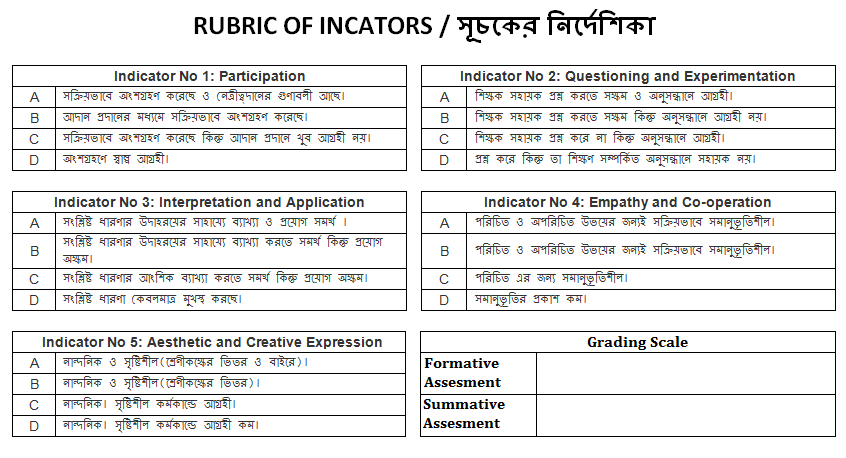
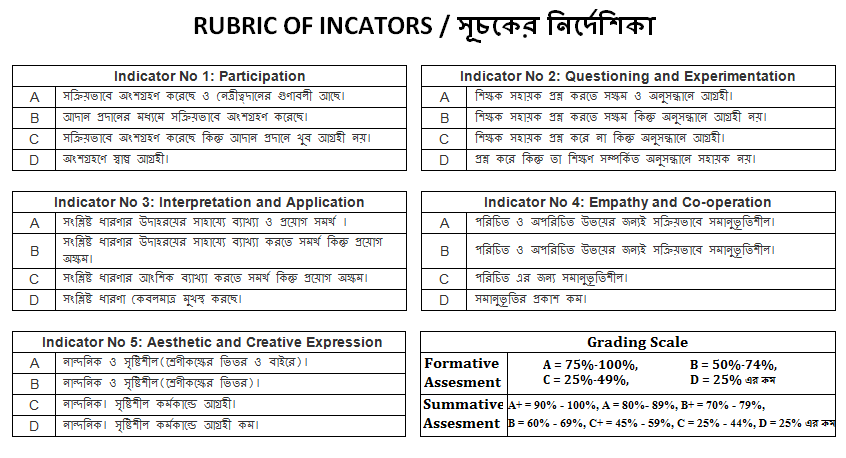
home

Changed region(s): [[0.5839, 0.7642, 0.9835, 0.9476]]

diff --git a/resources/views/resultcrs/clssecResultSheetv3.blade.php b/resources/views/resultcrs/clssecResultSheetv3.blade.php
@@ -6,13 +6,27 @@
 @endsection
 
 @section('content')
-<h1>Class Section Marks Register V-3</h1>
+
+    <h1 class='text-center'>{{ $school->name }}</h1>
+    <h3 class='text-center'>{{ $school->vill }} * {{ $school->po }} * {{ $school->ps }}</h3>
+    <h2 class='text-center'>Progress Report for Session {{ $session->name }}</h2>
+
+    <table class="table table-bordered">
+		<thead>
+			<tr>
+                <td>Name: <strong>{{ $studentcrs->first()->studentdb->name }}</strong></td>
+                <td>Class: <strong>{{ $studentcrs->first()->clss->name }}</strong></td>
+                <td>Section: <strong>{{ $studentcrs->first()->section->name }}</strong></td>
+                <td>Roll No:<strong>{{ $studentcrs->first()->roll_no }}</strong></td>
+            </tr>
+        </thead>
+    </table>
+
 
 
 	<table class="table table-bordered">
 		<thead>
-			<tr>
-				<th class="text-center">Name</th>
+			<tr>				
 				@foreach($extypes as $extype)
 					@php
 						$isExist = $extpmdclsbs->where('extype_id', $extype->id)->groupBy('extype_id')->count();
@@ -21,19 +35,19 @@
 						<th class="text-center">{{ $extype->name }}</th>
 					@endif
 				@endforeach
-				<th class="text-center">Action</th>
+				{{--  <th class="text-center">Action</th>  --}}
 			</tr>		
 		</thead>
 		<tbody>
 			@foreach($clssecMarks->groupBy('studentcr_id') as $studentcr)
 				{{--  <small>{{ $studentcr }}</small>  --}}
 				<tr>
-					<td>
+					{{--  <td>
 						<strong>{{ $studentcr->unique('studentcr_id')->first()->studentcr->studentdb->name }}</strong>,<br>
 						{{ $studentcr->unique('studentcr_id')->first()->studentcr->clss->name }},
 						{{ $studentcr->unique('studentcr_id')->first()->studentcr->section->name }},
 						Roll NO: {{ $studentcr->unique('studentcr_id')->first()->studentcr->roll_no }}
-					</td>
+					</td>  --}}
 					@foreach($extypes as $extype)
 							@php
 								// how many extype exists for current class, i.e. summative, formative or both
@@ -195,25 +209,82 @@
 
 													</tr>																							
 												@endif												
-											@endforeach
-
-											{{--  <tr>
-												<td colspan='6'>
-													<strong>Total</strong>
-												</td>
-											</tr>	  --}}
+											@endforeach											
 										</tbody>
 									</table>
 								</td>
 							@endif   {{--  end of isExits --}}
 				@endforeach
-				<td>pp</td>
 				</tr>
+                <tr>
+                    @php
+                        $mode_count = $extpmdclsbs->where('extype_id', $extype->id)->groupBy('mode_id')->count();
+                    @endphp
+                    @foreach($extypes as $extype)
+                        {{--  @foreach($modes as $mode)  --}}
+                            {{--  @if($extype->mode_id == $mode->id)  --}}
+                                <td><b>Total Obtained Marks: </b>
+                                @php
+                                    $etmcs = $extpmdclsbs->where('extype_id', $extype->id)->pluck('id');
+                                    $obtMarks = $marks->whereIn('exmtypmodclssub_id', $etmcs)
+                                                    ->where('studentcr_id', $studentcrs->first()->id)
+                                                    ->where('marks', '>', 0)
+                                                    ->sum('marks');
+
+                                @endphp
+                                {{ $obtMarks }} (In Word: )<br>
+                                <b>Total No of 'Ds' Obtained: </b>
+                                
+                                </td>
+                            {{--  @endif  --}}
+                        {{--  @endforeach  --}}
+                    @endforeach
+                
+                </tr>
 			@endforeach
 		</tbody>
 	</table>
 
 
+    <table class="table table-bordered">
+            <thead>
+                <tr>
+                    <th>Particulars</th>
+                    @foreach($exams as $exm)
+                        <th>{{$exm->name}}</th>
+                    @endforeach
+                </tr>
+            </thead>
+            <tbody>
+                <tr>
+                    <td>Attendance of Students</td>
+                    @foreach($exams as $exm)
+                        <td></td>
+                    @endforeach
+                </tr>
+                <tr>
+                    <td>Signature of Class Teacer</td>
+                    @foreach($exams as $exm)
+                        <td></td>
+                    @endforeach
+                </tr>
+                <tr>
+                    <td>Signature of HM/TIC</td>
+                    @foreach($exams as $exm)
+                        <td></td>
+                    @endforeach
+                </tr>
+                <tr>
+                    <td>Signature of Gurdian</td>
+                    @foreach($exams as $exm)
+                        <td></td>
+                    @endforeach
+                </tr>
+            </tbody>
+        </table>
+
+
+    <img src="{{ url('rubindicator/rubricindicator2.png') }}" class="img-rounded" width="100%">
 
 
 
@@ -229,56 +300,3 @@
 	@include('layouts.footer')
 @endsection
 
-
-
-											
-		{{--  <!-- @php
-				$ex_clssubs = $clssubs->where('extype_id', $extype->id)->where('combination_no', '!=', 0)->groupBy('combination_no');												
-				
-				$subName ='';
-				//foreach($ex_clssubs as $ex_clssub){
-				//	$subName .= $ex_clssub ."==="; 
-				//}
-			@endphp
-			@foreach( $ex_clssubs as $ex_clssub )
-					<tr>
-					@php		
-						$subName ='';		
-						$combSubIds = [];									
-						foreach($ex_clssub as $ex_cs){
-							$subName .= $ex_cs->name ; 
-							array_push($combSubIds,$ex_cs->id);
-							if( !$loop->last ){
-								$subName .= ' + '; 
-							}
-						}
-						//$subName .= ' or ';
-						//dd($combSubIds);
-
-					@endphp
-					<td>{{ $subName }}</td>
-
-					@foreach($exams as $exam)
-					@php
-						$extpmdclsb = $extpmdclsbs->where('extype_id', $extype->id)
-											->where('exam_id', $exam->id)
-											->whereIn('subject_id', $combSubIds)
-											;	
-						//dd($extpmdclsb->pluck('id'));
-						
-						$combSubObtMarks = $totalObtMarks = $marks
-									->whereIn('exmtypmodclssub_id', $extpmdclsb->pluck('id'))
-									->where('marks','>',0)->sum('marks');
-						//if(!$loop->first){
-						//dd($combSubObtMarks);
-						//}
-						$combSubFulMarks = $extpmdclsb->where('exam_id', $exam->id)->sum('fm');
-						
-					@endphp
-					
-					<td>om{{ $combSubObtMarks  }}:fm{{ $combSubFulMarks }}</td>
-
-					@endforeach
-				</tr>
-		@endforeach 
-	</tbody>  -->  --}}

diff --git a/app/Http/Controllers/ResultcrController.php b/app/Http/Controllers/ResultcrController.php
@@ -22,6 +22,7 @@ use App\Studentcr;
 use App\Clssub;
 use App\Clssec;
 use App\Grade;
+use App\Gradeparticular;
 
 
 use App\Exmtypclssub;
@@ -30,7 +31,54 @@ use App\Exmtypmodclssub;
 use App\Marksentry;
 use App\Gradedescription;
 use App\Extclssubfmpm;
+
+
 class ResultcrController extends Controller
 {
-    //
+    public function clssecResultSheetv3($clssec_id, $studentcr_id){
+        $ses = Session::whereStatus('CURRENT')->first();
+        $school = School::find(1);
+        $clsc = Clssec::find($clssec_id);
+        $clssubs = DB::table('clssubs')->where('clssubs.session_id', $ses->id)
+            ->where('clss_id', $clsc->clss_id)
+            ->join('subjects', 'subjects.id', '=', 'clssubs.subject_id')
+            //->select()
+            ->get();
+        //dd($clssubs);
+
+        $studentcrs = Studentcr::whereSession_id($ses->id)
+                        ->where('clss_id', $clsc->clss_id)
+                        ->where('section_id', $clsc->section_id)
+                        ->where('id', $studentcr_id)
+                        ->get();
+
+        $marks = Marksentry::whereSession_id($ses->id)
+                    ->whereIn('studentcr_id', $studentcrs->pluck('id'))
+                    ->orderBy('studentcr_id')
+                    ->get();
+
+                    
+        $exams = Exam::whereSession_id($ses->id)->get();
+        $extypes = Extype::whereSession_id($ses->id)->get();
+        $extpmdclsbs = Exmtypmodclssub::whereSession_id($ses->id)
+                        ->where('clss_id', $clsc->clss_id)
+                        ->get();
+        $grades = Grade::whereSession_id($ses->id)->get();
+        $gradeparticular = Gradeparticular::whereSession_id($ses->id)->get();
+        $modes = Mode::whereSession_id($ses->id)->get();
+
+    return view('resultcrs.clssecResultSheetv3')
+            ->with('session', $ses)
+            ->with('school', $school)
+            ->with('clssecMarks', $marks->sortBy('studentcr_id'))
+            ->with('studentcrs', $studentcrs->sortBy('studentdb_id'))
+            ->with('clssubs',$clssubs)
+            ->with('exams',$exams)
+            ->with('extypes',$extypes)
+            ->with('extpmdclsbs', $extpmdclsbs)
+            ->with('grades', $grades)
+            ->with('gradeparticular', $gradeparticular)
+            ->with('modes', $modes)
+            ;
+    }
 }

diff --git a/resources/views/results/ResultTaskpane.blade.php b/resources/views/results/ResultTaskpane.blade.php
@@ -17,9 +17,9 @@
     <th>Section</th>
     <th>Roll</th>
     @foreach($extp as $ex)
-      <th>Total Marks Obt<br><small>{{ $ex->name }}</small></th>
+      {{--  <th>Total Marks Obt<br><small>{{ $ex->name }}</small></th>
       <th>Full Marks<br><small>{{ $ex->name }}</small></th>
-      <th>Nos of Ds<br><small>{{ $ex->name }}</small></th>
+      <th>Nos of Ds<br><small>{{ $ex->name }}</small></th>  --}}
     @endforeach
     <th>Result Status</th>
     <th>Action</th>
@@ -35,13 +35,19 @@
     <td>{{$stdcr->section->name}}</td>
     <td>{{$stdcr->roll_no}}</td>
     @foreach($extp as $ex)
+      {{--  <td></td>
       <td></td>
-      <td></td>
-      <td></td>
+      <td></td>  --}}
     @endforeach
     <td></td>
-    <td><a href="{{url('/clssec-ResultSheet',[$clssec_id, $stdcr->id])}}">Result Sheet</a></td>
-    <td><a href="{{url('/clssec-ResultSheetPDF',[$clssec_id, $stdcr->id])}}">Result Sheet PDF</a></td>
+    <td>
+      <a href="{{url('/clssec-ResultSheet',[$clssec_id, $stdcr->id])}}">Result Sheet</a><br>
+      <a href="{{url('/clssec-ResultSheetv3',[$clssec_id, $stdcr->id])}}">Result Sheet V-3</a>
+    </td>
+    <td>
+    <a href="{{url('/clssec-ResultSheetPDF',[$clssec_id, $stdcr->id])}}">Result Sheet PDF</a><br>
+    <a href="{{url('/clssec-ResultSheetv3PDF',[$clssec_id, $stdcr->id])}}">Result Sheet V-3 PDF</a>
+    </td>
   </tr>
 @endforeach
 </tbody>

diff --git a/routes/web.php b/routes/web.php
@@ -213,6 +213,11 @@ Route::group(['middleware' => ['auth']], function () {
         Route::get('/clssec-MarksRegister/{clssec_id}',  'MarksEntryController@clssecMarksRegister');
         Route::get('/clssec-MarksRegisterv2/{clssec_id}',  'MarksEntryController@clssecMarksRegisterv2');
         Route::get('/clssec-MarksRegisterv3/{clssec_id}',  'MarksEntryController@clssecMarksRegisterv3');
+
+
+        Route::get('/clssec-ResultSheetv3/{clssec_id}/{studentcr_id}',  'ResultcrController@clssecResultSheetv3');
+
+
         
         //Route::get ('/clssecStdcr-MarkRefresh/{studentcr_id}', 'StdcrmarkregisterController@clssecStdcrMarkRefreshget');
         Route::post('/clssecStdcr-MarkRefresh/{studentcr_id}/{clss_id}/{section_id}', 'StdcrmarkregisterController@clssecStdcrMarkRefreshpost');
